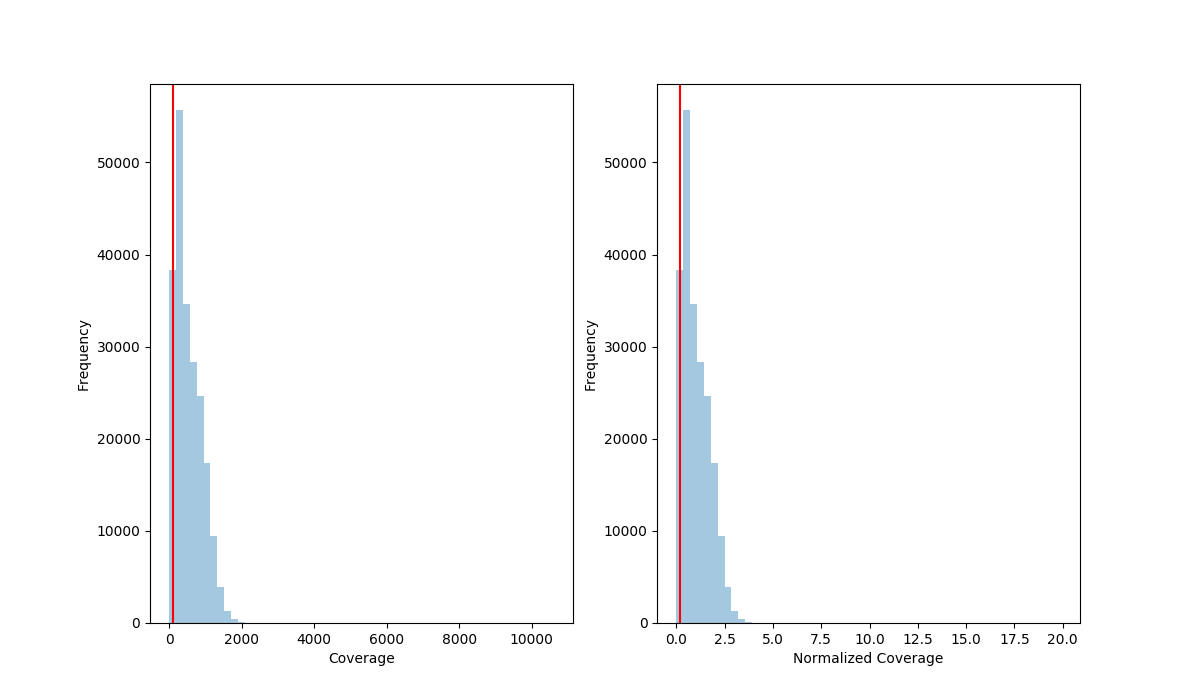
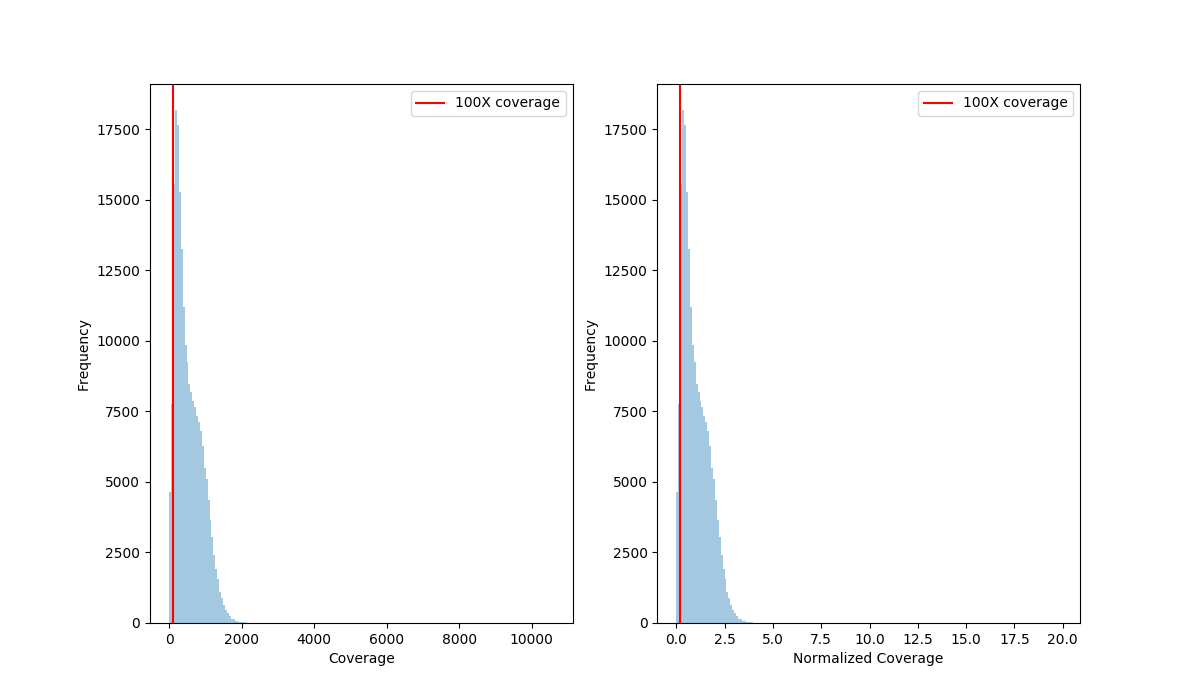
added bin option, legends to figure, check_header(), started test modules

diff --git a/plot_coverage.py b/plot_coverage.py
@@ -1,4 +1,5 @@
 import os
+import math
 
 import pandas as pd
 import seaborn as sns
@@ -8,9 +9,6 @@ import click
 
 
 # TO DO:
-# Make file parser into a function
-# Make plotting into a function
-# Create a class for the parsed data, plot function on top of that.
 # Extras
 # Include read file from zip format
 # Check that regions hit are unique.
@@ -20,27 +18,35 @@ CONTEXT_SETTINGS = dict(help_option_names=['-h', '--help'])
 
 @click.command(context_settings=CONTEXT_SETTINGS, no_args_is_help=True)
 @click.option(
-    '-i',
-    '--input-file',
-    type=click.Path(exists=True),
-    help='Input coverage file from the software sambamba depth (https://lomereiter.github.io/sambamba/)'
-)
-@click.option('-o',
-              '--out-path',
-              default=os.getcwd(),
-              help='Specify out directory path, default = current directory.')
-def plot_coverage(input_file, out_path):
+        '-i',
+        '--input-file',
+        type=click.File(mode='r'),
+        help='Input coverage file from the software sambamba depth \
+                (https://lomereiter.github.io/sambamba/)')
+@click.option(
+        '-o',
+        '--out-path',
+        default=os.getcwd(),
+        type=click.Path(exists=True),
+        help='Specify out directory path, default = current directory.')
+@click.option(
+        '-bins',
+        type=click.INT,
+        default=50,
+        help='Specify size of bins for histogram, default=50\n NOTE: Increasing \
+        number drastically will increase computation time')
+def plot_coverage(input_file, out_path, bins):
     '''Plots both normalized and non-normalized coverage data gathered from
     sambamba depth. Red line in output indicates 100X coverage.'''
-    coverage_data = CovData(input_file, out_path)
+    coverage_data = CovData(input_file, out_path, bins)
     coverage_data.cov_file_parser()
     coverage_data.plot()
 
 
 class CovData:
     '''Class to hold coverage data extracted'''
-
-    def __init__(self, input_file, out_path):
+    # replace arrays with numpy arrays, speeds up the creation of avg_cov_data
+    def __init__(self, input_file, out_path, bins):
         '''Initialize coverage data object'''
         self.input_file = input_file
         self.out_path = out_path
@@ -52,30 +58,30 @@ class CovData:
         self.avg_cov_data = []
         self.df = pd.DataFrame(dtype=float)
         self.n_df = pd.DataFrame(dtype=float)
+        self.bins = bins
 
     def cov_file_parser(self):
-        '''Parse coverage data, return pandas of regular and normalized data'''
-        with open(self.input_file, 'r') as fh:
-            for line in fh:
-                tmp_line = line.split('\t')
-                # Implement test for file format:
-                # Check if meanCoverage is present
-                # Add try for possible faulty values in meanCoverage column
-                if '#' in line:
-                    self.cov_idx = tmp_line.index('meanCoverage')
-                elif self.cov_idx:
-                    self.cov_data.append(float(tmp_line[self.cov_idx]))
-                #     self.df.append({'Coverage': float(tmp_line[self.cov_idx])}, ignore_index=True)
+        '''Parse coverage data, return pandas of regular and normalized data''' 
+        for line in self.input_file:
+            tmp_line = line.lower().split('\t')
+            if '#' in line:
+                check_header(line)
+                self.cov_idx = tmp_line.index('meancoverage') 
+            elif self.cov_idx:
+                try:
+                    data = float(tmp_line[self.cov_idx])
+                    self.cov_data.append(data)
                     self.entry_counter += 1
-                    self.cov_counter += float(tmp_line[self.cov_idx])
-            # Calculating average coverage
-            self.avg_cov = self.cov_counter / self.entry_counter
-            self.avg_cov_data = [number / self.avg_cov for number in self.cov_data]
+                    self.cov_counter += data
+                except ValueError:
+                    print(f'Row {self.entry_counter} contains string and not a number, omitting...')
+        
+        # Calculating average coverage
+        self.avg_cov = self.cov_counter / self.entry_counter
+        self.avg_cov_data = [number / self.avg_cov for number in self.cov_data]
         # Setting list as panda for searborn compability
         self.df = pd.DataFrame(self.cov_data, columns=['Coverage'])
-        self.cov_data = ''  # Free space
         self.n_df = pd.DataFrame(self.avg_cov_data, columns=['Normalized Coverage'])
-        self.avg_cov_data = ''  # Free space
 
     def plot(self):
         '''Plot coverage data, red line indicates 100X coverage'''
@@ -83,24 +89,30 @@ class CovData:
         fig, ax = plt.subplots(ncols=2, figsize=fig_dims)
         ax[0].set(ylabel='Frequency')
         ax[1].set(ylabel='Frequency')
-        ax[0].axvline(100, color='r')
-        ax[1].axvline(100 / self.avg_cov, color='r')
+        ax[0].axvline(100, color='r', label='100X coverage')
+        ax[1].axvline(100 / self.avg_cov, color='r', label='100X coverage')
+        handles_0, _0 = ax[0].get_legend_handles_labels()
+        handles_1, _1 = ax[1].get_legend_handles_labels()
+        ax[0].legend(handles = handles_0)
+        ax[1].legend(handles = handles_1)
         sns.distplot(
             self.df['Coverage'],
             ax=ax[0],
             hist=True,
             kde=False,
-            bins=int(280 / 5)
+            bins=self.bins
         )
         sns.distplot(
             self.n_df['Normalized Coverage'],
             ax=ax[1],
             hist=True,
             kde=False,
-            bins=int(280 / 5)
+            bins=self.bins
         )
         fig.savefig(f'{self.out_path}/coverage.png')
 
-
-if __name__ == '__main__':
-    plot_coverage()
+def check_header(header):
+    '''Checks header in sambamba output. Looks for "meanCoverage" in header'''
+    assert 'meancoverage' in header.lower(), 'Could not find meanCoverage in \
+            header, please check the file format'
+    return True

diff --git a/test_plot_coverage.py b/test_plot_coverage.py
@@ -1,0 +1,12 @@
+from plot_coverage import CovData, check_header
+
+test_object = CovData('input_file','output_file')
+
+def test_check_header():
+    true_header = '# this string does contain meanCoverage'
+    assert check_header(true_header) == True
+
+## TO DO:
+# Add tests on cov_file_parser, simply try to parse a dummy file which we know have the right format
+# Add test on plot function, simply try to plot the output of the cov_file_parser function
+
